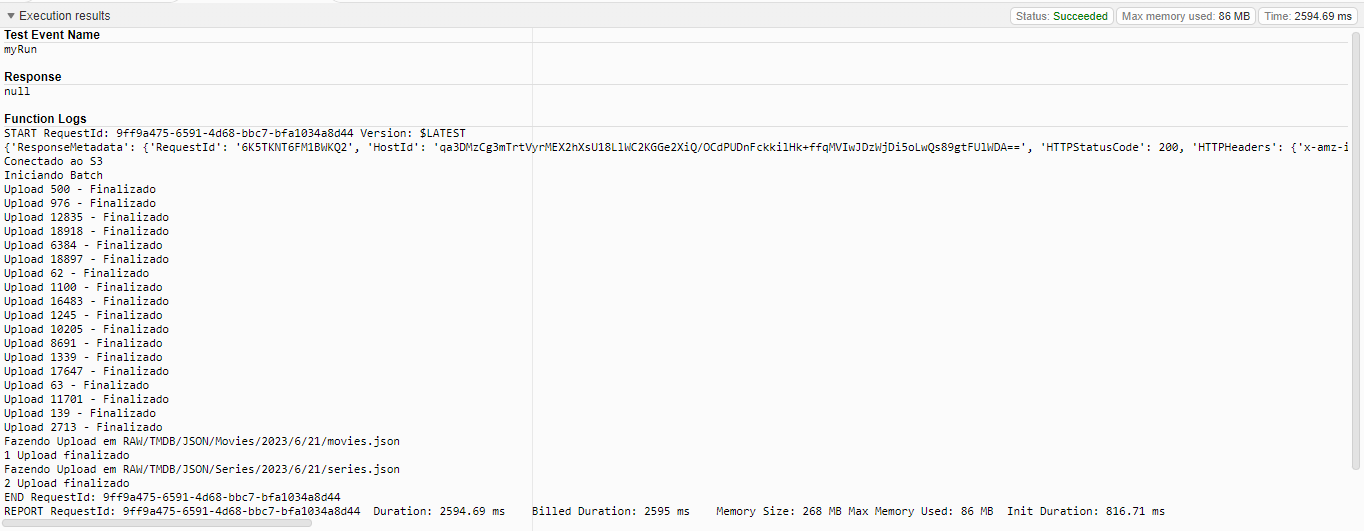
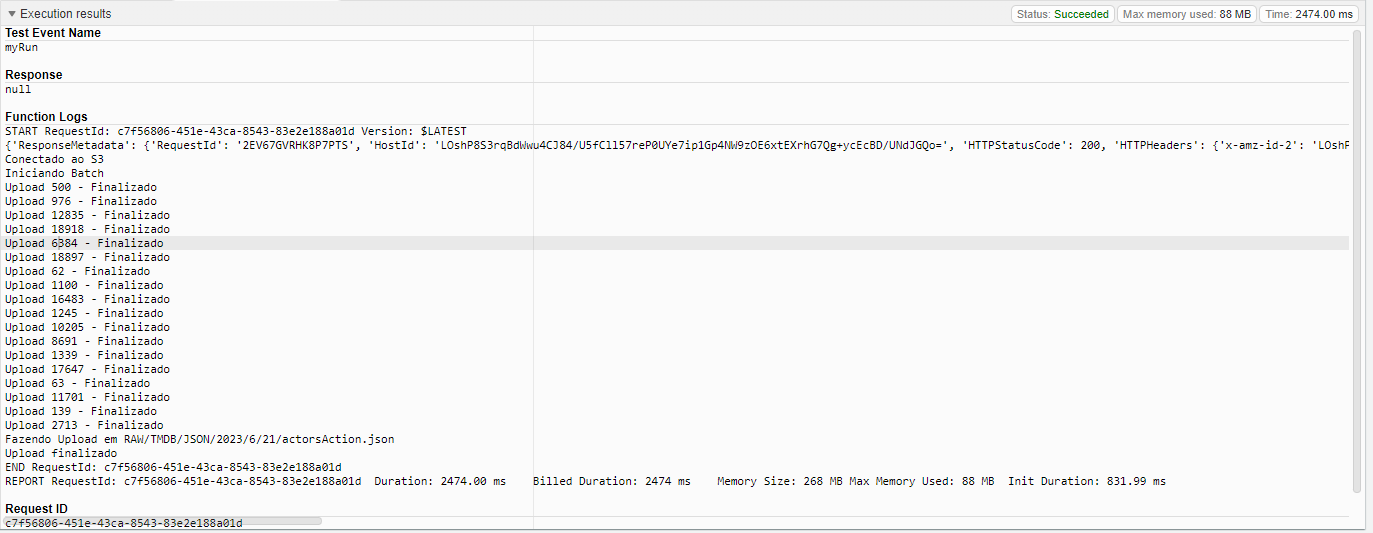
Alterando código

Changed region(s): [[0.0, 0.0, 1.0, 1.0]]

diff --git a/Sprint8/Desafio-ParteII/main.py b/Sprint8/Desafio-ParteII/main.py
@@ -8,6 +8,7 @@ from botocore.exceptions import ClientError
 ACCESS_KEY = os.environ['AWS_ACCESS_KEY_ID']
 SECRET_KEY = os.environ['AWS_SECRET_ACCESS_KEY']
 SESSION_TOKEN = os.environ['AWS_SESSION_TOKEN']
+API_KEY = os.environ['API_KEY_TMDB'] 
 
 session = boto3.Session(
     aws_access_key_id=ACCESS_KEY,
@@ -20,8 +21,7 @@ s3 = session.client('s3')
 
 actorsList = [500, 976, 12835, 18918, 6384, 18897, 62, 1100,
               16483, 1245, 10205, 8691, 1339, 17647, 63, 11701, 139, 2713]
-actorsMovies = []
-actorsSeries = []
+actorsMedia = []
 
 
 def lambda_handler(event, context):
@@ -36,25 +36,20 @@ def lambda_handler(event, context):
 
         microBatchData()
 
-        categories = [{"type": "Movies", "list": actorsMovies},
-                      {"type": "Series", "list": actorsSeries}]
+        file = "RAW/TMDB/JSON/{}/{}/{}/{}".format(
+            date.year, date.month, date.day, f"actorsAction.json")
 
-        for i in range(0, 2):
-            fileLower = categories[i]["type"].lower()
-            file = "RAW/TMDB/JSON/{}/{}/{}/{}/{}".format(
-                categories[i]["type"], date.year, date.month, date.day, f"{fileLower}.json")
-            try:
-                print(f"Fazendo Upload em {file}")
-                s3.put_object(Body=json.dumps(categories[i]["list"], ensure_ascii=False).encode(
-                    'utf8'), Bucket='pblabum', Key=file)
-            finally:
-                print(f"{i + 1} Upload finalizado")
+        try:
+            print(f"Fazendo Upload em {file}")
+            s3.put_object(Body=json.dumps(actorsMedia, ensure_ascii=False).encode(
+                'utf8'), Bucket='pblabum', Key=file)
+        finally:
+            print(f"Upload finalizado")
 
 
 def req(id):
     try:
-        api_key = "721b346f73c11fd9715c5f8e5a5561bd"
-        url = f"https://api.themoviedb.org/3/person/{id}/combined_credits?api_key={api_key}&language=pt-BR"
+        url = f"https://api.themoviedb.org/3/person/{id}/combined_credits?api_key={API_KEY}&language=pt-BR"
         response = requests.get(url)
         data = response.json()
     finally:
@@ -67,11 +62,8 @@ def microBatchData():
         data = req(actorsList[i])
 
         for media in data["cast"]:
-            if media['media_type'] == "movie":
-                data = media["id_actor"] = actorsList[i]
-                actorsMovies.append(media)
-            elif media['media_type'] == "tv":
-                actorsSeries.append(media)
+            data = media["id_actor"] = actorsList[i]
+            actorsMedia.append(media)
 
 
 if __name__ in '__main__':
